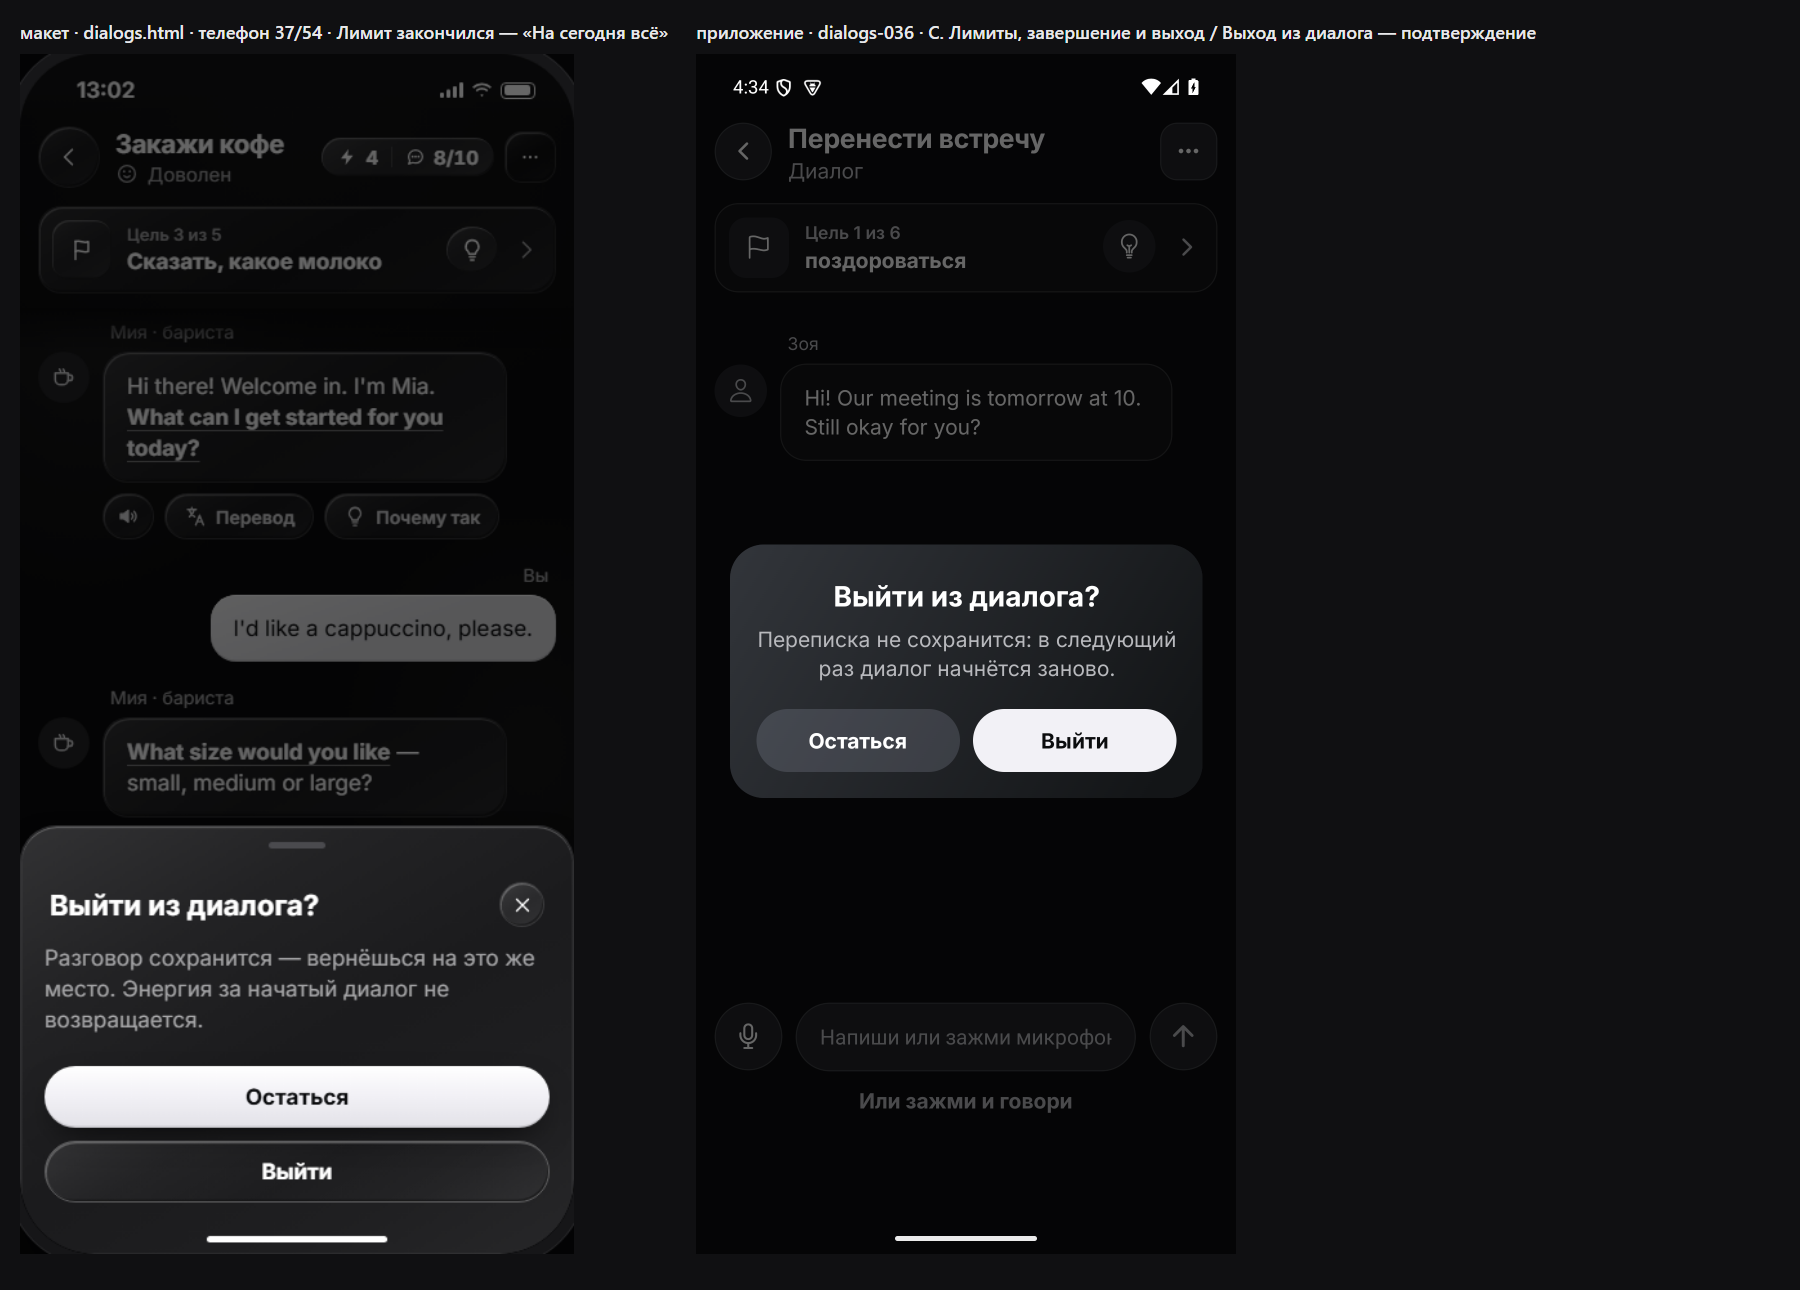
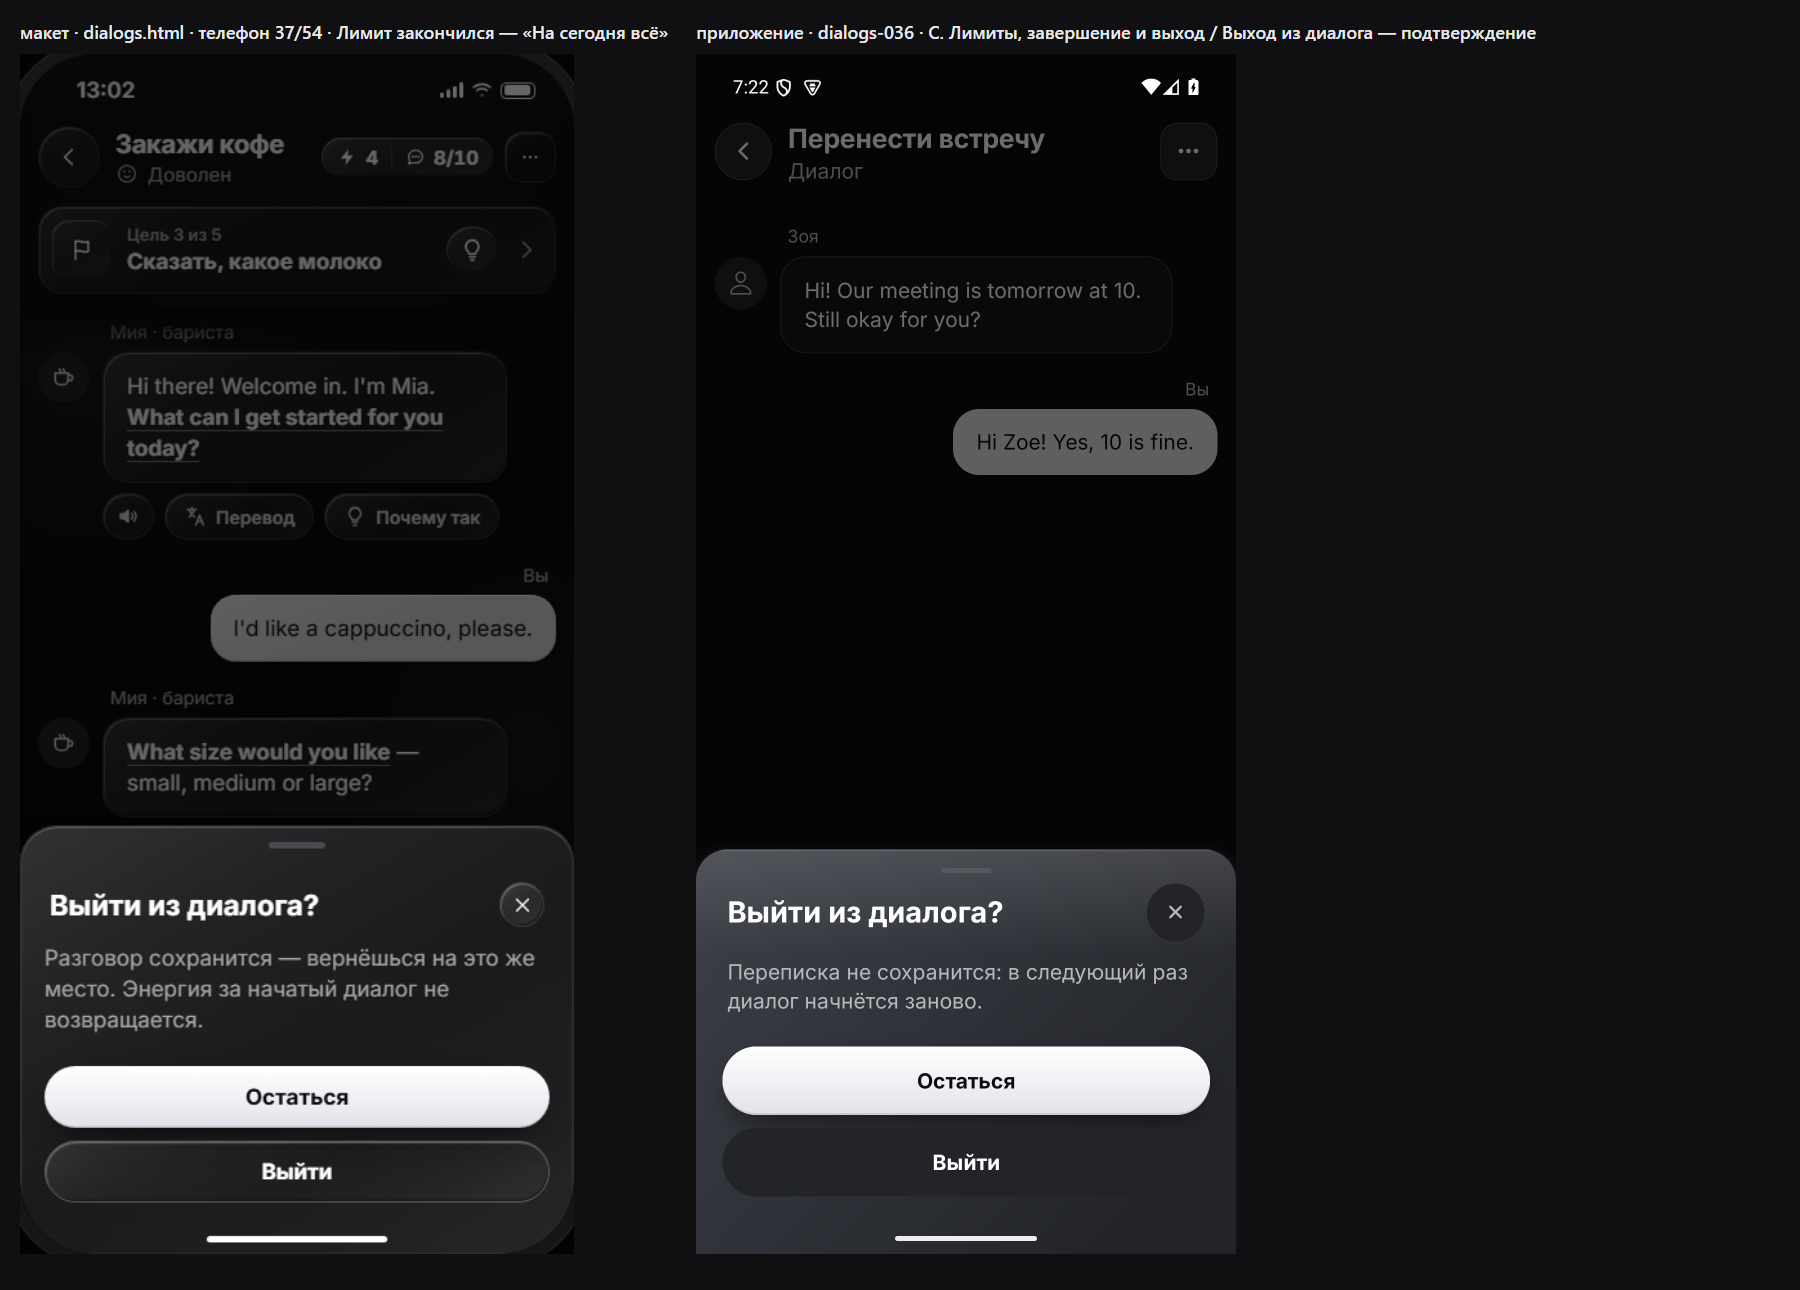
docs(sverka): диалоги после переделки — клавиатура ок, выход шторкой, лимит месячный

diff --git a/docs/phraseman-2.0/INBOX_COORDINATOR_FROM_SVERKA.md b/docs/phraseman-2.0/INBOX_COORDINATOR_FROM_SVERKA.md
@@ -289,3 +289,10 @@ av_back_check.txt, 1 строка): [NAV-BACK] decision leaving=/lingman_playlis
 - 004: кромка шторки и тень «Начать» есть — сняты; затемнение под шторкой всё ещё слабее.
 - Логи: C:\Temp\claude\mistake_direction_logs.txt — 3 строки [MISTAKE-DETAIL] direction (Grandchildren/Daddy/Granny: facet=meaning, sourceGroup=cards, correctRowShows=phrase, phraseScript=latin, meaningScript=cyrillic, hasGiven=false).
 - ⛔ [MISTAKE-SESSION] exercise:direction НЕ сняты: «Начать» в шторке стоит ⚡1 энергии — по запрету трат не нажимала. Нужно разрешение (или снять утром с владельцем).
+
+## 07:24 — Диалоги после переделки сессией 3
+- (2а) поле ввода с открытой клавиатурой НЕ уходит под неё ✅ (DIALOGUE_KB_open_0718.png).
+- (2б) после отправки клавиатура скрылась, пустой полосы снизу НЕТ ✅ — на её месте стена лимита (DIALOGUE_KB_after_send_0720.png). Логи C:\Temp\claude\dialogue_keyboard.txt: show height=312, hide.
+- (3) выход — шторка снизу как в макете ✅; текст «не сохранится» по-прежнему против макета (ждёт владельца).
+- Отправка ответила quota_exhausted: «На этот месяц всё · 30 ответов» — в макете дневной лимит «На сегодня всё · 10 реплик». Реплика осталась без пометки.
+- (1) хаб в СВЕТЛОЙ теме не снят: смена темы — это Настройки, которые роняют эмулятор. Снять на телефоне.
